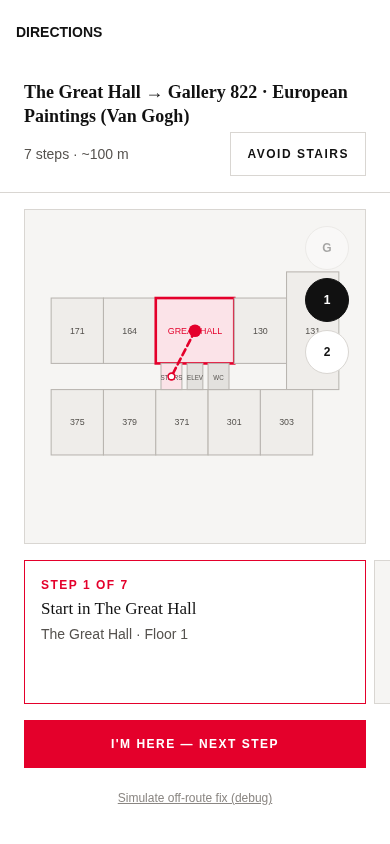
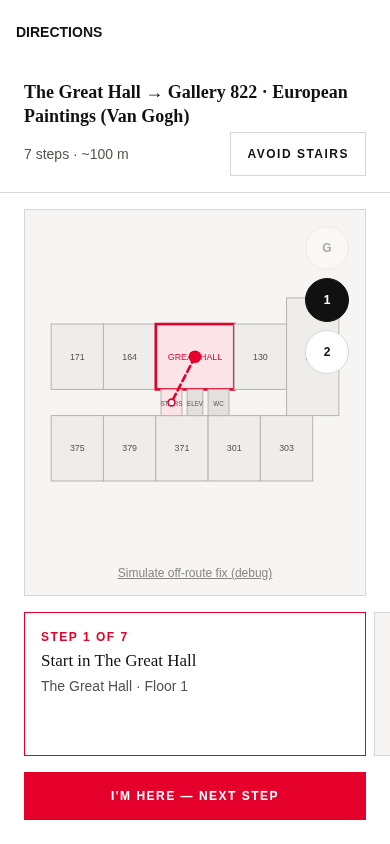
iOS render fixes: un-collapse filter chips, proxy thumbnails, route overflow; webkit e2e guard
Live iPhone report on All Results ("sphinx"): filter chips rendered as
empty clipped slivers and every result thumbnail stayed a blank grey box.
Reproduced with Playwright iPhone-13 emulation — on BOTH engines; the
chromium checks never caught it because they run the stub provider
(short lists, no COEP server).

Root causes + fixes:
- SearchFilterChips: RN-web ScrollView defaults to flexShrink:1; a long
  results FlatList (flex-basis = content height) shrank the strip to
  ~5px. flexShrink:0 — the strip keeps its intrinsic height.
- Result-row + room-sheet thumbnails loaded images.metmuseum.org
  directly; prod COEP require-corp blocks the CORP-less Met CDN, so the
  images never painted. New objectImageSrc() helper (exported from
  ObjectImage) routes web thumbnails through the /api/v1/img proxy like
  the hero image always did; stub + native keep direct CDN URLs.
- Route screen (found in the webkit sweep): step-card strip had the same
  flexShrink collapse (long instructions clipped); floor-chip column
  overflowed short maps leaving lower floors unreachable (now capped to
  the map height, wrap-reverse into a second column); debug-only
  simulate-fix link moved out of the column flow onto the map overlay —
  its 52px pushed the footer below the fold once cards stopped
  (wrongly) absorbing the shortfall.

Permanent guard:
- e2e/checks/render-sanity.spec.ts: per-screen clip audit (nothing
  top-clipped under an unscrolled ancestor; nothing cut by an
[…]

diff --git a/e2e/checks/render-sanity.spec.ts b/e2e/checks/render-sanity.spec.ts
@@ -1,0 +1,146 @@
+import { expect, test, type Page } from '@playwright/test';
+
+/**
+ * Render-sanity sweep — catches the "layout collapsed but nothing crashed"
+ * class of defect that the HIG audit can't see. Born from a live iPhone
+ * report (2026-06-10): on All Results the filter-chip strip was flex-shrunk
+ * to ~5px (RN-web ScrollView defaults to flexShrink:1; a long FlatList
+ * sibling squeezed it out), so the chips rendered as clipped, label-less
+ * slivers — while every chip still measured 44px tall for the tap-target
+ * audit, because the OVERFLOWING rect was measured, not the visible part.
+ *
+ * Two audits, on every screen:
+ *  (a) clip audit — no text-bearing element may be clipped at its nearest
+ *      scroll-ancestor's TOP edge while that ancestor is unscrolled, and
+ *      none may extend past the BOTTOM edge of an ancestor that cannot
+ *      scroll vertically (overflow hidden, or a scroller with no vertical
+ *      slack). Content the user can never reach by scrolling is a defect.
+ *  (b) chips audit (results screen) — every filter chip has a non-zero
+ *      computed height, non-empty visible text, and sits fully inside the
+ *      strip's vertical bounds.
+ *
+ * Runs in both the chromium `checks` project and the `webkit-render`
+ * project (iPhone engine — where the report came from).
+ */
+
+const FIRST_PAINT = { timeout: 45_000 };
+
+test.use({
+  viewport: { width: 390, height: 844 },
+  geolocation: { latitude: 40.7794, longitude: -73.9632 },
+});
+
+/** (a) Returns human-readable clip violations. */
+function clipAudit(page: Page): Promise<string[]> {
+  return page.evaluate(() => {
+    const out: string[] = [];
+    const hidden = (el: Element) => {
+      const cs = getComputedStyle(el);
+      return cs.display === 'none' || cs.visibility === 'hidden' || cs.opacity === '0';
+    };
+    const label = (el: Element) => {
+      const id = (el as HTMLElement).dataset?.testid;
+      const text = (el.textContent ?? '').trim().replace(/\s+/g, ' ').slice(0, 30);
+      return `<${el.tagName.toLowerCase()}${id ? ` testid=${id}` : ''}${text ? ` "${text}"` : ''}>`;
+    };
+    for (const el of Array.from(document.body.querySelectorAll('*'))) {
+      // SVG internals pan/zoom past the map viewport by design.
+      if (el.closest('svg')) continue;
+      const r = el.getBoundingClientRect();
+      if (!r.width || !r.height || hidden(el)) continue;
+      if (getComputedStyle(el).position === 'fixed') continue;
+      // Only audit content-bearing nodes; pure layout wrappers overflow
+      // legitimately (e.g. a FlatList content container inside a scroller).
+      if (!(el.textContent ?? '').trim() && !(el as HTMLElement).dataset?.testid) continue;
+      for (let p = el.parentElement; p && p !== document.documentElement; p = p.parentElement) {
+        const ps = getComputedStyle(p);
+        if (!['hidden', 'clip', 'auto', 'scroll'].includes(ps.overflowY)) continue;
+        const pr = p.getBoundingClientRect();
+        if (p.scrollTop === 0 && r.top < pr.top - 1) {
+          out.push(
+            `top-clipped: ${label(el)} top=${r.top.toFixed(1)} above unscrolled ancestor ${label(p)} top=${pr.top.toFixed(1)}`,
+          );
+        }
+        const canScrollY =
+          (ps.overflowY === 'auto' || ps.overflowY === 'scroll') &&
+          p.scrollHeight > p.clientHeight + 1;
+        // r.top < pr.bottom: the element starts inside the ancestor, so its
+        // overflowing tail is genuinely cut (not a fully-below sibling).
+        if (!canScrollY && r.bottom > pr.bottom + 1 && r.top < pr.bottom - 1) {
+          out.push(
+            `bottom-clipped: ${label(el)} bottom=${r.bottom.toFixed(1)} past unscrollable ancestor ${label(p)} bottom=${pr.bottom.toFixed(1)}`,
+          );
+        }
+        break; // judge only against the nearest clipping ancestor
+      }
+    }
+    return out;
+  });
+}
+
+/** (b) Returns filter-chip visibility violations. */
+function chipsAudit(page: Page): Promise<string[]> {
+  return page.evaluate(() => {
+    const out: string[] = [];
+    const strip = document.querySelector('[data-testid="filter-chips"]');
+    if (!strip) return ['filter-chips strip not found'];
+    const sr = strip.getBoundingClientRect();
+    const chips = strip.querySelectorAll('[data-testid^="filter-"]');
+    if (chips.length === 0) return ['no chips inside filter-chips strip'];
+    for (const chip of Array.from(chips)) {
+      const id = (chip as HTMLElement).dataset.testid;
+      const r = chip.getBoundingClientRect();
+      const h = parseFloat(getComputedStyle(chip).height);
+      const text = ((chip as HTMLElement).innerText ?? '').trim();
+      if (!(h > 0)) out.push(`chip ${id}: computed height ${h}`);
+      if (!text) out.push(`chip ${id}: no visible text`);
+      if (r.top < sr.top - 1 || r.bottom > sr.bottom + 1) {
+        out.push(
+          `chip ${id}: vertically clipped (chip ${r.top.toFixed(1)}–${r.bottom.toFixed(1)} vs strip ${sr.top.toFixed(1)}–${sr.bottom.toFixed(1)})`,
+        );
+      }
+    }
+    return out;
+  });
+}
+
+test('home renders without clipped content', async ({ page }) => {
+  await page.goto('/');
+  await expect(page.getByTestId('floor-map')).toBeVisible(FIRST_PAINT);
+  expect(await clipAudit(page)).toEqual([]);
+});
+
+test('search with open suggestions renders without clipped content', async ({ page }) => {
+  await page.goto('/search');
+  await page.getByTestId('search-input').fill('Monet', FIRST_PAINT);
+  await expect(page.getByTestId('suggestion-438008')).toBeVisible();
+  expect(await clipAudit(page)).toEqual([]);
+});
+
+test('results with a LONG list keeps the filter chips visible', async ({ page }) => {
+  // "a" matches all 79 stub objects — enough rows that a flex-shrinkable
+  // chip strip would collapse (the original bug needed a long sibling list).
+  await page.goto('/results?q=a');
+  await expect(page.getByTestId('result-436535')).toBeVisible(FIRST_PAINT);
+  expect(await chipsAudit(page)).toEqual([]);
+  expect(await clipAudit(page)).toEqual([]);
+});
+
+test('object renders without clipped content', async ({ page }) => {
+  await page.goto('/object/436535');
+  await expect(page.getByTestId('object-title')).toBeVisible(FIRST_PAINT);
+  expect(await clipAudit(page)).toEqual([]);
+});
+
+test('route renders without clipped content', async ({ page }) => {
+  await page.goto('/route/great-hall/822');
+  await expect(page.getByTestId('route-step-0')).toBeVisible(FIRST_PAINT);
+  expect(await clipAudit(page)).toEqual([]);
+});
+
+test('locate renders without clipped content', async ({ page }) => {
+  await page.goto('/locate');
+  await expect(page.getByTestId('locate-input')).toBeVisible(FIRST_PAINT);
+  await expect(page.getByTestId('gps-status')).toContainText('Near Great Hall');
+  expect(await clipAudit(page)).toEqual([]);
+});

diff --git a/apps/mobile/src/app/route/[from]/[to].tsx b/apps/mobile/src/app/route/[from]/[to].tsx
@@ -279,6 +279,17 @@ export default function RouteScreen() {
             <Text style={styles.toastText}>Rerouting…</Text>
           </View>
         )}
+        {/* Debug-only control: overlaid on the map, NOT in the column flow.
+            In the footer it cost 52px of vertical budget, which pushed the
+            footer below the fold on iPhone-size viewports once the step
+            cards stopped (wrongly) absorbing the shortfall. */}
+        <Pressable
+          style={styles.debugBtn}
+          onPress={simulateOffRouteFix}
+          testID="simulate-fix"
+        >
+          <Text style={styles.debugText}>Simulate off-route fix (debug)</Text>
+        </Pressable>
       </View>
 
       <FlatList
@@ -354,13 +365,6 @@ export default function RouteScreen() {
             <Text style={styles.imHereText}>I'm here — next step</Text>
           </Pressable>
         )}
-        <Pressable
-          style={styles.debugBtn}
-          onPress={simulateOffRouteFix}
-          testID="simulate-fix"
-        >
-          <Text style={styles.debugText}>Simulate off-route fix (debug)</Text>
-        </Pressable>
       </View>
     </View>
   );
@@ -430,6 +434,11 @@ const styles = StyleSheet.create({
   },
   cards: {
     flexGrow: 0,
+    // RN-web ScrollView defaults to flexShrink:1 — without this the step
+    // strip gets shrunk below its tallest card on small viewports and long
+    // instructions clip at the card bottom. The map (flex:1) absorbs the
+    // shortfall instead.
+    flexShrink: 0,
   },
   cardsContent: {
     paddingHorizontal: spacing.lg,
@@ -499,6 +508,8 @@ const styles = StyleSheet.create({
     color: colors.white,
   },
   debugBtn: {
+    position: 'absolute',
+    bottom: 0,
     alignSelf: 'center',
     minHeight: 44, // HIG tap target
     justifyContent: 'center',

diff --git a/e2e/playwright.config.ts b/e2e/playwright.config.ts
@@ -1,8 +1,14 @@
-import { defineConfig } from '@playwright/test';
+import { defineConfig, devices } from '@playwright/test';
 
 /**
- * Two projects (see README.md):
+ * Three projects (see README.md):
  *  - checks:   fast headless assertion gate. Run after every change.
+ *  - webkit-render: iPhone-engine (WebKit) render guard — runs hig.spec +
+ *              render-sanity.spec ONLY, not the whole checks suite, to keep
+ *              CI runtime sane. Exists because a chip-strip flex collapse
+ *              and COEP-blocked thumbnails shipped invisibly: the
+ *              chromium-only sweep never saw what iOS Safari users saw.
+ *              Requires `npx playwright install webkit`.
  *  - journeys: user-facing demo videos, phone-sized, deliberately paced.
  *              MUST run serially — invoke via `npm run journeys` (forces
  *              --workers=1) or pass --workers=1 yourself; Playwright has no
@@ -35,6 +41,19 @@ export default defineConfig({
       testDir: './checks',
       fullyParallel: true,
       use: {
+        video: 'retain-on-failure',
+        trace: 'retain-on-failure',
+      },
+    },
+    {
+      name: 'webkit-render',
+      testDir: './checks',
+      testMatch: ['hig.spec.ts', 'render-sanity.spec.ts'],
+      fullyParallel: true,
+      use: {
+        // Real iPhone emulation (WebKit engine + UA/DPR/touch); the specs'
+        // own test.use viewport (390×844) still applies on top.
+        ...devices['iPhone 13'],
         video: 'retain-on-failure',
         trace: 'retain-on-failure',
       },

diff --git a/apps/mobile/src/components/ObjectImage.tsx b/apps/mobile/src/components/ObjectImage.tsx
@@ -29,6 +29,23 @@ import { apiBase } from '@/data/apiBase';
 import { useData } from '@/data/provider';
 import { colors } from '@/theme';
 
+/**
+ * Resolve the URL an object picture loads from. Web (real provider) MUST go
+ * through the server image proxy: the prod server's COEP `require-corp`
+ * blocks the CORP-less Met CDN outright, so direct images.metmuseum.org
+ * URLs render as permanently blank boxes (reproduced live on result-row
+ * thumbnails, both engines). Stub mockup and native keep the direct CDN URL
+ * (no COEP there; see header comment).
+ */
+export function objectImageSrc(
+  uri: string,
+  objectID: number,
+  dataVersion: string,
+): string {
+  if (Platform.OS !== 'web' || dataVersion === 'stub') return uri;
+  return `${apiBase()}/api/v1/img/${objectID}?v=${encodeURIComponent(dataVersion)}`;
+}
+
 export default function ObjectImage({
   uri,
   objectID,
@@ -43,10 +60,7 @@ export default function ObjectImage({
 
   let img: React.ReactNode;
   if (Platform.OS === 'web') {
-    const src =
-      dataVersion === 'stub'
-        ? uri
-        : `${apiBase()}/api/v1/img/${objectID}?v=${encodeURIComponent(dataVersion)}`;
+    const src = objectImageSrc(uri, objectID, dataVersion);
     img = (
       <img
         src={src}

diff --git a/apps/mobile/src/components/HomeRoomSheet.tsx b/apps/mobile/src/components/HomeRoomSheet.tsx
@@ -6,7 +6,8 @@
 import { router } from 'expo-router';
 import { FlatList, Image, Pressable, StyleSheet, Text, View } from 'react-native';
 
-import { MetObject, Room } from '@/data/provider';
+import { objectImageSrc } from '@/components/ObjectImage';
+import { MetObject, Room, useData } from '@/data/provider';
 import { colors, spacing, type } from '@/theme';
 
 export interface HomeRoomSheetProps {
@@ -29,6 +30,7 @@ export default function HomeRoomSheet({
   originId,
   onClose,
 }: HomeRoomSheetProps) {
+  const { dataVersion } = useData();
   return (
     <View style={styles.sheet} testID="room-sheet">
       <View style={styles.grabber} />
@@ -80,7 +82,12 @@ export default function HomeRoomSheet({
               testID={`sheet-object-${item.objectID}`}
             >
               {item.img ? (
-                <Image source={{ uri: item.img }} style={styles.thumb} resizeMode="cover" />
+                // Proxy on web (COEP blocks the raw CDN) — see objectImageSrc.
+                <Image
+                  source={{ uri: objectImageSrc(item.img, item.objectID, dataVersion) }}
+                  style={styles.thumb}
+                  resizeMode="cover"
+                />
               ) : (
                 <View style={[styles.thumb, styles.thumbEmpty]} />
               )}

diff --git a/apps/mobile/src/app/results.tsx b/apps/mobile/src/app/results.tsx
@@ -12,6 +12,7 @@ import {
 
 import type { components } from '@met/shared';
 
+import { objectImageSrc } from '@/components/ObjectImage';
 import SearchFilterChips, {
   ResultFilters,
   applyFilters,
@@ -154,7 +155,11 @@ export default function ResultsScreen() {
             testID={`result-${item.objectID}`}
           >
             {item.img ? (
-              <Image source={{ uri: item.img }} style={styles.thumb} />
+              // Proxy on web (COEP blocks the raw CDN) — see objectImageSrc.
+              <Image
+                source={{ uri: objectImageSrc(item.img, item.objectID, data.dataVersion) }}
+                style={styles.thumb}
+              />
             ) : (
               <View style={[styles.thumb, styles.thumbEmpty]} />
             )}

diff --git a/apps/mobile/src/components/FloorMap.tsx b/apps/mobile/src/components/FloorMap.tsx
@@ -502,6 +502,13 @@ const styles = StyleSheet.create({
     position: 'absolute',
     top: spacing.md,
     right: spacing.md,
+    // On short maps (route screen, small phones) a single column of floor
+    // chips is taller than the map and the overflow is clipped — lower
+    // floors became unreachable. Cap the column at the map height and let
+    // it wrap; 'wrap-reverse' puts the first column at the right edge so
+    // extra columns grow leftward over the map instead of off-screen.
+    bottom: spacing.md,
+    flexWrap: 'wrap-reverse',
     gap: spacing.sm,
   },
   // Apple HIG: every tap target ≥44×44 pt.

diff --git a/apps/mobile/src/components/SearchFilterChips.tsx b/apps/mobile/src/components/SearchFilterChips.tsx
@@ -125,6 +125,12 @@ export default function SearchFilterChips({
 const styles = StyleSheet.create({
   strip: {
     flexGrow: 0,
+    // RN-web ScrollView defaults to flexShrink:1, and the sibling results
+    // FlatList's flex-basis is its full content height — with a long result
+    // list (e.g. 145 rows for "sphinx" on the real provider) flexbox shrinks
+    // this strip to a few px and the chips render as clipped, label-less top
+    // slivers. The strip must keep its intrinsic height; the list scrolls.
+    flexShrink: 0,
   },
   row: {
     gap: spacing.sm,